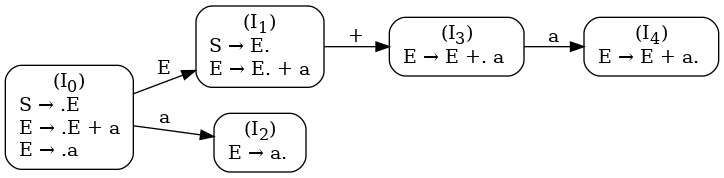
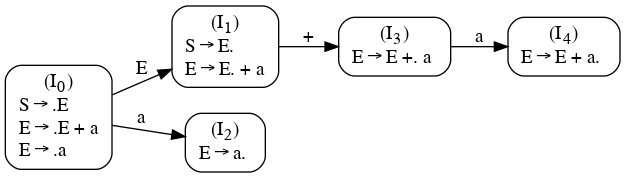
Change and Automatic update: Sat 27 Apr 2024 12:18:32 PM +0330

diff --git a/cm/lr/index.html b/cm/lr/index.html
@@ -4,10 +4,10 @@
         messageStyle: "none",
         TeX : { extensions : ['color.js'] }
       });
-    </script></head><body class="impress-not-supported"><div id="impress" data-width="1024" data-height="800" data-transition-duration="1000"><div class="step step-level-1" step="0" style="width: 1024px;" data-rotate-x="0" data-rotate-y="0" data-rotate-z="0" data-scale="1" data-x="0" data-y="0" data-z="0"><h1 id="lr">LR</h1><h2 id="syntax-analysis-lr">Syntax Analysis(LR)</h2><p>Ahmad Yoosofan</p><p>Compiler course</p><p>University of Kashan</p><p><a href="https://yoosofan.github.io/course/compiler.html">https://yoosofan.github.io/course/compiler.html</a></p></div><div class="step step-level-1" step="1" style="width: 1024px;" data-rotate-x="0" data-rotate-y="0" data-rotate-z="0" data-scale="1" data-x="1600" data-y="0" data-z="0"><h1 id="simple-add-i">Simple Add(I)</h1><ol><li class="substep">E &#8594; E + a</li><li class="substep">E &#8594; a</li></ol><img src="img/graph_22.png" class="substep"></div><div class="step step-level-1 t2c" step="2" style="width: 1024px;" data-rotate-x="0" data-rotate-y="0" data-rotate-z="0" data-scale="1" data-x="3200" data-y="0" data-z="0"><h1 id="simple-add-ii">Simple Add(II)</h1><ol><li>E &#8594; E + a</li><li>E &#8594; a</li></ol><img src="img/graph_23.png" class="substep"></div><div class="step step-level-1 t2c" step="3" style="width: 1024px;" data-rotate-x="0" data-rotate-y="0" data-rotate-z="0" data-scale="1" data-x="4800" data-y="0" data-z="0"><h1 id="simple-add-iii">Simple Add(III)</h1><ol><li>E &#8594; E + a</li><li>E &#8594; a</li></ol><img src="img/graph_24.png" class="substep"></div><div class="step step-level-1 t2c" step="4" style="width: 1024px;" data-rotate-x="0" data-rotate-y="0" data-rotate-z="0" data-scale="1" data-x="6400" data-y="0" data-z="0"><h1 id="simple-add-iv">Simple Add(IV)</h1><ol><li>E &#8594; E + a</li><li>E &#8594; a</li></ol><img src="img/graph_25.png"></div><div class="step step-level-1 t2c" step="5" style="width: 1024px;" data-rotate-x="0" data-rotate-y="0" data-rotate-z="0" data-scale="1" data-x="8000" data-y="0" data-z="0"><h1 id="simple-add-v">Simple Add(V)</h1><ol><li>E &#8594; E + a</li><li>E &#8594; a</li></ol><img src="img/graph_26.png"></div><div class="step step-level-1 t2c" step="6" style="width: 1024px;" data-rotate-x="0" data-rotate-y="0" data-rotate-z="0" data-scale="1" data-x="9600" data-y="0" data-z="0"><h1 id="simple-add-vi">Simple Add(VI)</h1><ol><li>E &#8594; E + a</li><li>E &#8594; a</li></ol><img src="img/graph_27.png"><ul><li class="substep">input: 3+5+1</li><li class="substep">a(3)+a(5)+a(1)</li><li class="substep">a+a+a</li></ul></div><div class="step step-level-1 t2c" step="7" style="width: 1024px;" data-rotate-x="0" data-rotate-y="0" data-rotate-z="0" data-scale="1" data-x="11200" data-y="0" data-z="0"><h1 id="simple-add-vii">Simple Add(VII)</h1><ol><li>S &#8594; E</li><li>E &#8594; E + a</li><li>E &#8594; a</li></ol><img src="img/graph_28.png"></div><div class="step step-level-1 t2c" step="8" style="width: 1024px;" data-rotate-x="0" data-rotate-y="0" data-rotate-z="0" data-scale="1" data-x="12800" data-y="0" data-z="0"><h1 id="simple-add-vii-1">Simple Add(VII)</h1><ol><li>S &#8594; E</li><li>E &#8594; E + a</li><li>E &#8594; a</li></ol><img src="img/graph_29.png"></div><div class="step step-level-1 t2c" step="9" style="width: 1024px;" data-rotate-x="0" data-rotate-y="0" data-rotate-z="0" data-scale="1" data-x="14400" data-y="0" data-z="0"><h1 id="simple-calculator-i">Simple Calculator(I)</h1><ol><li>E &#8594; E + T</li><li>E &#8594; E - T</li><li>E &#8594; T</li><li>T &#8594; T * F</li><li>T &#8594; T / F</li><li>T &#8594; F</li><li>F &#8594; (E)</li><li>F &#8594; a</li></ol><img src="img/graph_30.png" class="substep"></div><div class="step step-level-1 t2c" step="10" style="width: 1024px;" data-rotate-x="0" data-rotate-y="0" data-rotate-z="0" data-scale="1" data-x="16000" data-y="0" data-z="0"><h1 id="simple-calculator-ii">Simple Calculator(II)</h1><ol><li>E &#8594; E + T</li><li>E &#8594; E - T</li><li>E &#8594; T</li><li>T &#8594; T * F</li><li>T &#8594; T / F</li><li>T &#8594; F</li><li>F &#8594; (E)</li><li>F &#8594; a</li></ol><img src="img/graph_31.png" class="substep"></div><div class="step step-level-1 t2c" step="11" style="width: 1024px;" data-rotate-x="0" data-rotate-y="0" data-rotate-z="0" data-scale="1" data-x="17600" data-y="0" data-z="0"><h1 id="simple-calculator-xx">Simple Calculator(XX)</h1><ol><li>E &#8594; E + T</li><li>E &#8594; E - T</li><li>E &#8594; T</li><li>T &#8594; T * F</li><li>T &#8594; T / F</li><li>T &#8594; F</li><li>F &#8594; (E)</li><li>F &#8594; a</li></ol><img src="img/graph_32.png" class="substep"></div><div class="step step-level-1" step="12" style="width: 1024px;" data-rotate-x="0" data-rotate-y="0" data-rotate-z="0" data-scale="1" data-x="19200" data-y="0" data-z="0"><img src="img/slr_etf.png"></div><div class="step step-level-1 t2c" step="13" style="width: 1024px;" data-rotate-x="0" data-rotate-y="0" data-rotate-z="0" data-scale="1" data-x="20800" data-y="0" data-z="0"><h1 id="ambiguous-grammar">Ambiguous Grammar</h1><pre class="highlight code fortran"><span class="k">IF </span><span class="n">x</span><span class="w"> </span><span class="o">=</span><span class="w"> </span><span class="mi">2</span><span class="w"> </span><span class="k">THEN
+    </script></head><body class="impress-not-supported"><div id="impress" data-width="1024" data-height="800" data-transition-duration="1000"><div class="step step-level-1" step="0" style="width: 1024px;" data-rotate-x="0" data-rotate-y="0" data-rotate-z="0" data-scale="1" data-x="0" data-y="0" data-z="0"><h1 id="lr">LR</h1><h2 id="syntax-analysis-lr">Syntax Analysis(LR)</h2><p>Ahmad Yoosofan</p><p>Compiler course</p><p>University of Kashan</p><p><a href="https://yoosofan.github.io/course/compiler.html">https://yoosofan.github.io/course/compiler.html</a></p></div><div class="step step-level-1" step="1" style="width: 1024px;" data-rotate-x="0" data-rotate-y="0" data-rotate-z="0" data-scale="1" data-x="1600" data-y="0" data-z="0"><h1 id="simple-add-i">Simple Add(I)</h1><ol><li class="substep">E &#8594; E + a</li><li class="substep">E &#8594; a</li></ol><img src="img/graph_1.png" class="substep"></div><div class="step step-level-1 t2c" step="2" style="width: 1024px;" data-rotate-x="0" data-rotate-y="0" data-rotate-z="0" data-scale="1" data-x="3200" data-y="0" data-z="0"><h1 id="simple-add-ii">Simple Add(II)</h1><ol><li>E &#8594; E + a</li><li>E &#8594; a</li></ol><img src="img/graph_2.png" class="substep"></div><div class="step step-level-1 t2c" step="3" style="width: 1024px;" data-rotate-x="0" data-rotate-y="0" data-rotate-z="0" data-scale="1" data-x="4800" data-y="0" data-z="0"><h1 id="simple-add-iii">Simple Add(III)</h1><ol><li>E &#8594; E + a</li><li>E &#8594; a</li></ol><img src="img/graph_3.png" class="substep"></div><div class="step step-level-1 t2c" step="4" style="width: 1024px;" data-rotate-x="0" data-rotate-y="0" data-rotate-z="0" data-scale="1" data-x="6400" data-y="0" data-z="0"><h1 id="simple-add-iv">Simple Add(IV)</h1><ol><li>E &#8594; E + a</li><li>E &#8594; a</li></ol><img src="img/graph_4.png"></div><div class="step step-level-1 t2c" step="5" style="width: 1024px;" data-rotate-x="0" data-rotate-y="0" data-rotate-z="0" data-scale="1" data-x="8000" data-y="0" data-z="0"><h1 id="simple-add-v">Simple Add(V)</h1><ol><li>E &#8594; E + a</li><li>E &#8594; a</li></ol><img src="img/graph_5.png"></div><div class="step step-level-1 t2c" step="6" style="width: 1024px;" data-rotate-x="0" data-rotate-y="0" data-rotate-z="0" data-scale="1" data-x="9600" data-y="0" data-z="0"><h1 id="simple-add-vi">Simple Add(VI)</h1><ol><li>E &#8594; E + a</li><li>E &#8594; a</li></ol><img src="img/graph_6.png"><ul><li class="substep">input: 3+5+1</li><li class="substep">a(3)+a(5)+a(1)</li><li class="substep">a+a+a</li></ul></div><div class="step step-level-1 t2c" step="7" style="width: 1024px;" data-rotate-x="0" data-rotate-y="0" data-rotate-z="0" data-scale="1" data-x="11200" data-y="0" data-z="0"><h1 id="simple-add-vii">Simple Add(VII)</h1><ol><li>S &#8594; E</li><li>E &#8594; E + a</li><li>E &#8594; a</li></ol><img src="img/graph_7.png"></div><div class="step step-level-1 t2c" step="8" style="width: 1024px;" data-rotate-x="0" data-rotate-y="0" data-rotate-z="0" data-scale="1" data-x="12800" data-y="0" data-z="0"><h1 id="simple-add-vii-1">Simple Add(VII)</h1><ol><li>S &#8594; E</li><li>E &#8594; E + a</li><li>E &#8594; a</li></ol><img src="img/graph_8.png"></div><div class="step step-level-1 t2c" step="9" style="width: 1024px;" data-rotate-x="0" data-rotate-y="0" data-rotate-z="0" data-scale="1" data-x="14400" data-y="0" data-z="0"><h1 id="simple-calculator-i">Simple Calculator(I)</h1><ol><li>E &#8594; E + T</li><li>E &#8594; E - T</li><li>E &#8594; T</li><li>T &#8594; T * F</li><li>T &#8594; T / F</li><li>T &#8594; F</li><li>F &#8594; (E)</li><li>F &#8594; a</li></ol><img src="img/graph_9.png" class="substep"></div><div class="step step-level-1 t2c" step="10" style="width: 1024px;" data-rotate-x="0" data-rotate-y="0" data-rotate-z="0" data-scale="1" data-x="16000" data-y="0" data-z="0"><h1 id="simple-calculator-ii">Simple Calculator(II)</h1><ol><li>E &#8594; E + T</li><li>E &#8594; E - T</li><li>E &#8594; T</li><li>T &#8594; T * F</li><li>T &#8594; T / F</li><li>T &#8594; F</li><li>F &#8594; (E)</li><li>F &#8594; a</li></ol><img src="img/graph_10.png" class="substep"></div><div class="step step-level-1 t2c" step="11" style="width: 1024px;" data-rotate-x="0" data-rotate-y="0" data-rotate-z="0" data-scale="1" data-x="17600" data-y="0" data-z="0"><h1 id="simple-calculator-xx">Simple Calculator(XX)</h1><ol><li>E &#8594; E + T</li><li>E &#8594; E - T</li><li>E &#8594; T</li><li>T &#8594; T * F</li><li>T &#8594; T / F</li><li>T &#8594; F</li><li>F &#8594; (E)</li><li>F &#8594; a</li></ol><img src="img/graph_11.png" class="substep"></div><div class="step step-level-1" step="12" style="width: 1024px;" data-rotate-x="0" data-rotate-y="0" data-rotate-z="0" data-scale="1" data-x="19200" data-y="0" data-z="0"><img src="img/slr_etf.png"></div><div class="step step-level-1 t2c" step="13" style="width: 1024px;" data-rotate-x="0" data-rotate-y="0" data-rotate-z="0" data-scale="1" data-x="20800" data-y="0" data-z="0"><h1 id="ambiguous-grammar">Ambiguous Grammar</h1><pre class="highlight code fortran"><span class="k">IF </span><span class="n">x</span><span class="w"> </span><span class="o">=</span><span class="w"> </span><span class="mi">2</span><span class="w"> </span><span class="k">THEN
     </span><span class="n">x</span><span class="w"> </span><span class="o">=</span><span class="w"> </span><span class="mi">3</span><span class="w">
 </span><span class="k">ELSE
-    </span><span class="n">x</span><span class="w"> </span><span class="o">=</span><span class="w"> </span><span class="mi">4</span></pre><ol><li class="substep">S &#8594; i S</li><li class="substep">S &#8594; i S e S</li><li class="substep">S &#8594; o</li></ol></div><div class="step step-level-1" step="14" style="width: 1024px;" data-rotate-x="0" data-rotate-y="0" data-rotate-z="0" data-scale="1" data-x="22400" data-y="0" data-z="0"><ol><li>S &#8594; i S M</li><li>M &#8594; e S</li><li>M &#8594; &#955;</li><li>S &#8594; o</li></ol></div><div class="step step-level-1 t2c" step="15" style="width: 1024px;" data-rotate-x="0" data-rotate-y="0" data-rotate-z="0" data-scale="1" data-x="24000" data-y="0" data-z="0"><h1 id="an-especial-grammar">An Especial Grammar</h1><ol><li>S &#8594; L = R</li><li>S &#8594; R</li><li>L &#8594; * R</li><li>L &#8594; a</li><li>R &#8594; L</li></ol><div class="substep"><p>Augmented Grammer</p><ul><li>S' &#8594; S</li></ul><ol><li>S &#8594; L = R</li><li>S &#8594; R</li><li>L &#8594; * R</li><li>L &#8594; a</li><li>R &#8594; L</li></ol></div></div><div class="step step-level-1" step="16" style="width: 1024px;" data-rotate-x="0" data-rotate-y="0" data-rotate-z="0" data-scale="1" data-x="25600" data-y="0" data-z="0"><img src="img/graph_33.png"></div><div class="step step-level-1" step="17" style="width: 1024px;" data-rotate-x="0" data-rotate-y="0" data-rotate-z="0" data-scale="1" data-x="27200" data-y="0" data-z="0"><ul><li>follow(S) = { }</li><li>follow(L) = {}</li><li>follow(R) = {}</li></ul><table cellpadding="0" cellspacing="0" class="smallerelementwithfullborder equal-col"><thead><tr><th><p>t</p></th><th><p>a</p></th><th><ul><li></ul></th><th><p>=</p></th><th><p>$</p></th><th><p>S</p></th><th><p>L</p></th><th><p>R</p></th></tr></thead><tbody><tr><td><p>I0</p></td><td><p>s5</p></td><td><p>s4</p></td><td></td><td></td><td><p>1</p></td><td><p>2</p></td><td><p>3</p></td></tr><tr><td><p>I1</p></td><td></td><td></td><td></td><td><p>acc</p></td><td></td><td></td><td></td></tr><tr><td><p>I2</p></td><td></td><td></td><td><p>s8/</p></td><td></td><td></td><td></td><td></td></tr><tr><td><p>I3</p></td><td></td><td></td><td></td><td></td><td></td><td></td><td></td></tr><tr><td><p>I4</p></td><td></td><td></td><td></td><td></td><td></td><td></td><td></td></tr><tr><td><p>I5</p></td><td></td><td></td><td></td><td></td><td></td><td></td><td></td></tr><tr><td><p>I6</p></td><td></td><td></td><td></td><td></td><td></td><td></td><td></td></tr><tr><td><p>I7</p></td><td></td><td></td><td></td><td></td><td></td><td></td><td></td></tr><tr><td><p>I8</p></td><td></td><td></td><td></td><td></td><td></td><td></td><td></td></tr></tbody></table></div><div class="step step-level-1" step="18" style="width: 1024px;" data-rotate-x="0" data-rotate-y="0" data-rotate-z="0" data-scale="1" data-x="28800" data-y="0" data-z="0"><h1 id="look-ahead">Look ahead</h1><img src="img/graph_34.png"></div><div class="step step-level-1" step="19" data-transition-duration="1" style="width: 1024px;" data-rotate-x="0" data-rotate-y="0" data-rotate-z="0" data-scale="1" data-x="30400" data-y="0" data-z="0"><img src="img/graph_35.png"></div><div class="step step-level-1" step="20" data-transition-duration="1" style="width: 1024px;" data-rotate-x="0" data-rotate-y="0" data-rotate-z="0" data-scale="1" data-x="32000" data-y="0" data-z="0"><img src="img/graph_36.png"></div><div class="step step-level-1" step="21" data-transition-duration="1" style="width: 1024px;" data-rotate-x="0" data-rotate-y="0" data-rotate-z="0" data-scale="1" data-x="33600" data-y="0" data-z="0"><img src="img/graph_37.png"></div><div class="step step-level-1" step="22" data-transition-duration="1" style="width: 1024px;" data-rotate-x="0" data-rotate-y="0" data-rotate-z="0" data-scale="1" data-x="35200" data-y="0" data-z="0"><img src="img/graph_38.png"></div><div class="step step-level-1" step="23" data-transition-duration="1" style="width: 1024px;" data-rotate-x="0" data-rotate-y="0" data-rotate-z="0" data-scale="1" data-x="36800" data-y="0" data-z="0"><img src="img/graph_39.png"></div><div class="step step-level-1" step="24" data-transition-duration="1" style="width: 1024px;" data-rotate-x="0" data-rotate-y="0" data-rotate-z="0" data-scale="1" data-x="38400" data-y="0" data-z="0"><img src="img/graph_40.png"></div><div class="step step-level-1" step="25" data-transition-duration="1" style="width: 1024px;" data-rotate-x="0" data-rotate-y="0" data-rotate-z="0" data-scale="1" data-x="40000" data-y="0" data-z="0"><img src="img/graph_41.png"></div><div class="step step-level-1" step="26" data-transition-duration="1" style="width: 1024px;" data-rotate-x="0" data-rotate-y="0" data-rotate-z="0" data-scale="1" data-x="41600" data-y="0" data-z="0"><img src="img/graph_42.png"></div><div class="step step-level-1" step="27" data-transition-duration="1000" style="width: 1024px;" data-rotate-x="0" data-rotate-y="0" data-rotate-z="0" data-scale="1" data-x="43200" data-y="0" data-z="0"><h1 id="lalr">LALR</h1><table cellpadding="0" cellspacing="0" class="smallerelementwithfullborder equal-col"><thead><tr><th><p>t</p></th><th><p>a</p></th><th><ul><li></ul></th><th><p>=</p></th><th><p>$</p></th><th><p>S</p></th><th><p>L</p></th><th><p>R</p></th></tr></thead><tbody><tr><td><p>I0</p></td><td><p>s5</p></td><td><p>s4</p></td><td></td><td></td><td><p>1</p></td><td><p>2</p></td><td><p>3</p></td></tr><tr><td><p>I1</p></td><td></td><td></td><td></td><td><p>acc</p></td><td></td><td></td><td></td></tr><tr><td><p>I2</p></td><td></td><td></td><td><p>s8/</p></td><td></td><td></td><td></td><td></td></tr><tr><td><p>I3</p></td><td></td><td></td><td></td><td></td><td></td><td></td><td></td></tr><tr><td><p>I4</p></td><td></td><td></td><td></td><td></td><td></td><td></td><td></td></tr><tr><td><p>I5</p></td><td></td><td></td><td></td><td></td><td></td><td></td><td></td></tr><tr><td><p>I6</p></td><td></td><td></td><td></td><td></td><td></td><td></td><td></td></tr><tr><td><p>I7</p></td><td></td><td></td><td></td><td></td><td></td><td></td><td></td></tr><tr><td><p>I8</p></td><td></td><td></td><td></td><td></td><td></td><td></td><td></td></tr></tbody></table></div><div class="step step-level-1" step="28" style="width: 1024px;" data-rotate-x="0" data-rotate-y="0" data-rotate-z="0" data-scale="1" data-x="44800" data-y="0" data-z="0"><p>END</p></div></div><div id="slide-number" class="slide-number">
+    </span><span class="n">x</span><span class="w"> </span><span class="o">=</span><span class="w"> </span><span class="mi">4</span></pre><ol><li class="substep">S &#8594; i S</li><li class="substep">S &#8594; i S e S</li><li class="substep">S &#8594; o</li></ol></div><div class="step step-level-1" step="14" style="width: 1024px;" data-rotate-x="0" data-rotate-y="0" data-rotate-z="0" data-scale="1" data-x="22400" data-y="0" data-z="0"><ol><li>S &#8594; i S M</li><li>M &#8594; e S</li><li>M &#8594; &#955;</li><li>S &#8594; o</li></ol></div><div class="step step-level-1 t2c" step="15" style="width: 1024px;" data-rotate-x="0" data-rotate-y="0" data-rotate-z="0" data-scale="1" data-x="24000" data-y="0" data-z="0"><h1 id="an-especial-grammar">An Especial Grammar</h1><ol><li>S &#8594; L = R</li><li>S &#8594; R</li><li>L &#8594; * R</li><li>L &#8594; a</li><li>R &#8594; L</li></ol><div class="substep"><p>Augmented Grammer</p><ul><li>S' &#8594; S</li></ul><ol><li>S &#8594; L = R</li><li>S &#8594; R</li><li>L &#8594; * R</li><li>L &#8594; a</li><li>R &#8594; L</li></ol></div></div><div class="step step-level-1" step="16" style="width: 1024px;" data-rotate-x="0" data-rotate-y="0" data-rotate-z="0" data-scale="1" data-x="25600" data-y="0" data-z="0"><img src="img/graph_12.png"></div><div class="step step-level-1" step="17" style="width: 1024px;" data-rotate-x="0" data-rotate-y="0" data-rotate-z="0" data-scale="1" data-x="27200" data-y="0" data-z="0"><ul><li>follow(S) = { }</li><li>follow(L) = {}</li><li>follow(R) = {}</li></ul><table cellpadding="0" cellspacing="0" class="smallerelementwithfullborder equal-col"><thead><tr><th><p>t</p></th><th><p>a</p></th><th><ul><li></ul></th><th><p>=</p></th><th><p>$</p></th><th><p>S</p></th><th><p>L</p></th><th><p>R</p></th></tr></thead><tbody><tr><td><p>I0</p></td><td><p>s5</p></td><td><p>s4</p></td><td></td><td></td><td><p>1</p></td><td><p>2</p></td><td><p>3</p></td></tr><tr><td><p>I1</p></td><td></td><td></td><td></td><td><p>acc</p></td><td></td><td></td><td></td></tr><tr><td><p>I2</p></td><td></td><td></td><td><p>s8/</p></td><td></td><td></td><td></td><td></td></tr><tr><td><p>I3</p></td><td></td><td></td><td></td><td></td><td></td><td></td><td></td></tr><tr><td><p>I4</p></td><td></td><td></td><td></td><td></td><td></td><td></td><td></td></tr><tr><td><p>I5</p></td><td></td><td></td><td></td><td></td><td></td><td></td><td></td></tr><tr><td><p>I6</p></td><td></td><td></td><td></td><td></td><td></td><td></td><td></td></tr><tr><td><p>I7</p></td><td></td><td></td><td></td><td></td><td></td><td></td><td></td></tr><tr><td><p>I8</p></td><td></td><td></td><td></td><td></td><td></td><td></td><td></td></tr></tbody></table></div><div class="step step-level-1" step="18" style="width: 1024px;" data-rotate-x="0" data-rotate-y="0" data-rotate-z="0" data-scale="1" data-x="28800" data-y="0" data-z="0"><h1 id="look-ahead">Look ahead</h1><img src="img/graph_13.png"></div><div class="step step-level-1" step="19" data-transition-duration="1" style="width: 1024px;" data-rotate-x="0" data-rotate-y="0" data-rotate-z="0" data-scale="1" data-x="30400" data-y="0" data-z="0"><img src="img/graph_14.png"></div><div class="step step-level-1" step="20" data-transition-duration="1" style="width: 1024px;" data-rotate-x="0" data-rotate-y="0" data-rotate-z="0" data-scale="1" data-x="32000" data-y="0" data-z="0"><img src="img/graph_15.png"></div><div class="step step-level-1" step="21" data-transition-duration="1" style="width: 1024px;" data-rotate-x="0" data-rotate-y="0" data-rotate-z="0" data-scale="1" data-x="33600" data-y="0" data-z="0"><img src="img/graph_16.png"></div><div class="step step-level-1" step="22" data-transition-duration="1" style="width: 1024px;" data-rotate-x="0" data-rotate-y="0" data-rotate-z="0" data-scale="1" data-x="35200" data-y="0" data-z="0"><img src="img/graph_17.png"></div><div class="step step-level-1" step="23" data-transition-duration="1" style="width: 1024px;" data-rotate-x="0" data-rotate-y="0" data-rotate-z="0" data-scale="1" data-x="36800" data-y="0" data-z="0"><img src="img/graph_18.png"></div><div class="step step-level-1" step="24" data-transition-duration="1" style="width: 1024px;" data-rotate-x="0" data-rotate-y="0" data-rotate-z="0" data-scale="1" data-x="38400" data-y="0" data-z="0"><img src="img/graph_19.png"></div><div class="step step-level-1" step="25" data-transition-duration="1" style="width: 1024px;" data-rotate-x="0" data-rotate-y="0" data-rotate-z="0" data-scale="1" data-x="40000" data-y="0" data-z="0"><img src="img/graph_20.png"></div><div class="step step-level-1" step="26" data-transition-duration="1" style="width: 1024px;" data-rotate-x="0" data-rotate-y="0" data-rotate-z="0" data-scale="1" data-x="41600" data-y="0" data-z="0"><img src="img/graph_21.png"></div><div class="step step-level-1" step="27" data-transition-duration="1000" style="width: 1024px;" data-rotate-x="0" data-rotate-y="0" data-rotate-z="0" data-scale="1" data-x="43200" data-y="0" data-z="0"><h1 id="lalr">LALR</h1><table cellpadding="0" cellspacing="0" class="smallerelementwithfullborder equal-col"><thead><tr><th><p>t</p></th><th><p>a</p></th><th><ul><li></ul></th><th><p>=</p></th><th><p>$</p></th><th><p>S</p></th><th><p>L</p></th><th><p>R</p></th></tr></thead><tbody><tr><td><p>I0</p></td><td><p>s5</p></td><td><p>s4</p></td><td></td><td></td><td><p>1</p></td><td><p>2</p></td><td><p>3</p></td></tr><tr><td><p>I1</p></td><td></td><td></td><td></td><td><p>acc</p></td><td></td><td></td><td></td></tr><tr><td><p>I2</p></td><td></td><td></td><td><p>s8/</p></td><td></td><td></td><td></td><td></td></tr><tr><td><p>I3</p></td><td></td><td></td><td></td><td></td><td></td><td></td><td></td></tr><tr><td><p>I4</p></td><td></td><td></td><td></td><td></td><td></td><td></td><td></td></tr><tr><td><p>I5</p></td><td></td><td></td><td></td><td></td><td></td><td></td><td></td></tr><tr><td><p>I6</p></td><td></td><td></td><td></td><td></td><td></td><td></td><td></td></tr><tr><td><p>I7</p></td><td></td><td></td><td></td><td></td><td></td><td></td><td></td></tr><tr><td><p>I8</p></td><td></td><td></td><td></td><td></td><td></td><td></td><td></td></tr></tbody></table></div><div class="step step-level-1" step="28" style="width: 1024px;" data-rotate-x="0" data-rotate-y="0" data-rotate-z="0" data-scale="1" data-x="44800" data-y="0" data-z="0"><p>END</p></div></div><div id="slide-number" class="slide-number">
          1
       </div><script type="text/javascript" src="js/impress.js"></script><script type="text/javascript" src="js/gotoSlide.js"></script><script type="text/javascript" src="js/hovercraft.js"></script><script type="text/javascript">
       document.getElementById("impress").addEventListener("impress:stepenter", update_slide_number, false);

diff --git a/cm/lr/css/style.css b/cm/lr/css/style.css
@@ -1,20 +1,20 @@
-/*
-@import url(http://fonts.googleapis.com/css?family=Libre+Baskerville|Racing+Sans+One|Satisfy);
+
+/*@import url(http://fonts.googleapis.com/css?family=Libre+Baskerville|Racing+Sans+One|Satisfy);
 
 @media screen and (min-width:1599px) { #impress { transform: scale(1.6) !important; }}
 @media screen and (min-width:1200px) and (max-width:1599px) { #impress { transform: scale(1.4) !important; }}
-@media screen and (min-width:800px) and (max-width:1199px) { #impress { transform: scale(1.25) !important; }}
-@media screen and (min-width:640px) and (max-width:799px) { #impress { transform: scale(0.8) !important;}}
-@media screen and (min-width:500px) and (max-width:639px) { #impress { transform: scale(0.8) !important;  }}
 
+@media screen and (min-width:800px) and (max-width:1199px) { #impress { transform: scale(1.05) !important; }}
 #impress{
   margin: 0;
   padding: 0;
+}*/
+#impress {
+  transform: scale(1) !important;
 }
-*/
 body{
   text-align: center;
-  font-size: 110%;
+  font-size: 100%;
   margin: 0;
   padding: 0;
 }/*font-size: 170%;  font-family: Libre Baskerville; font-family: Nazli, Libre Baskerville;  background-color: white /* #EBEEEE #E8E0F1 #F0F1E0 #E0EAF1 #E2E5E7 #ECEFDE #DEEFDE #007bff #00b2e3 #D0F0D0 #F3E2E2 #D1D8E4; #728ec2;*/
